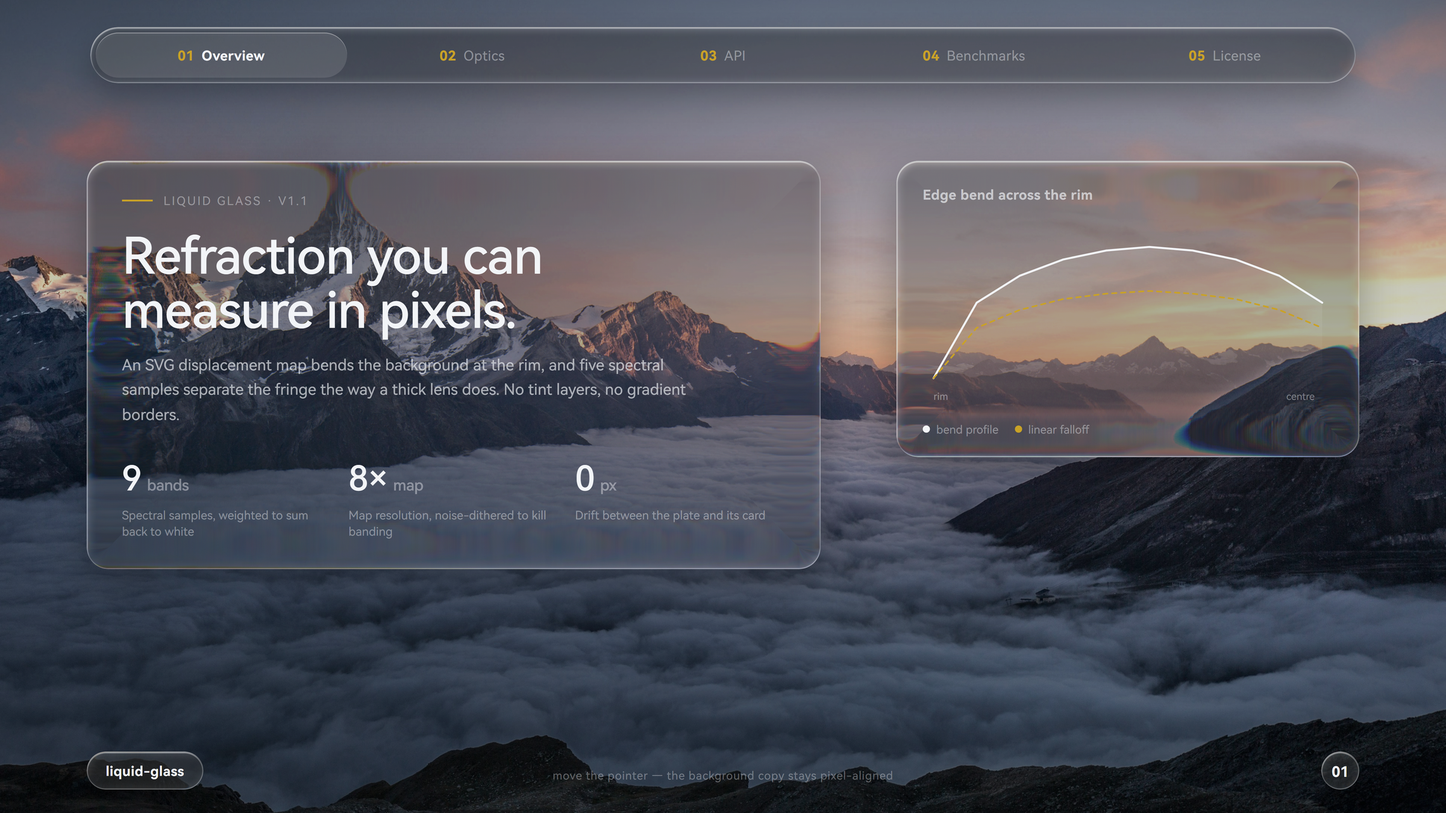
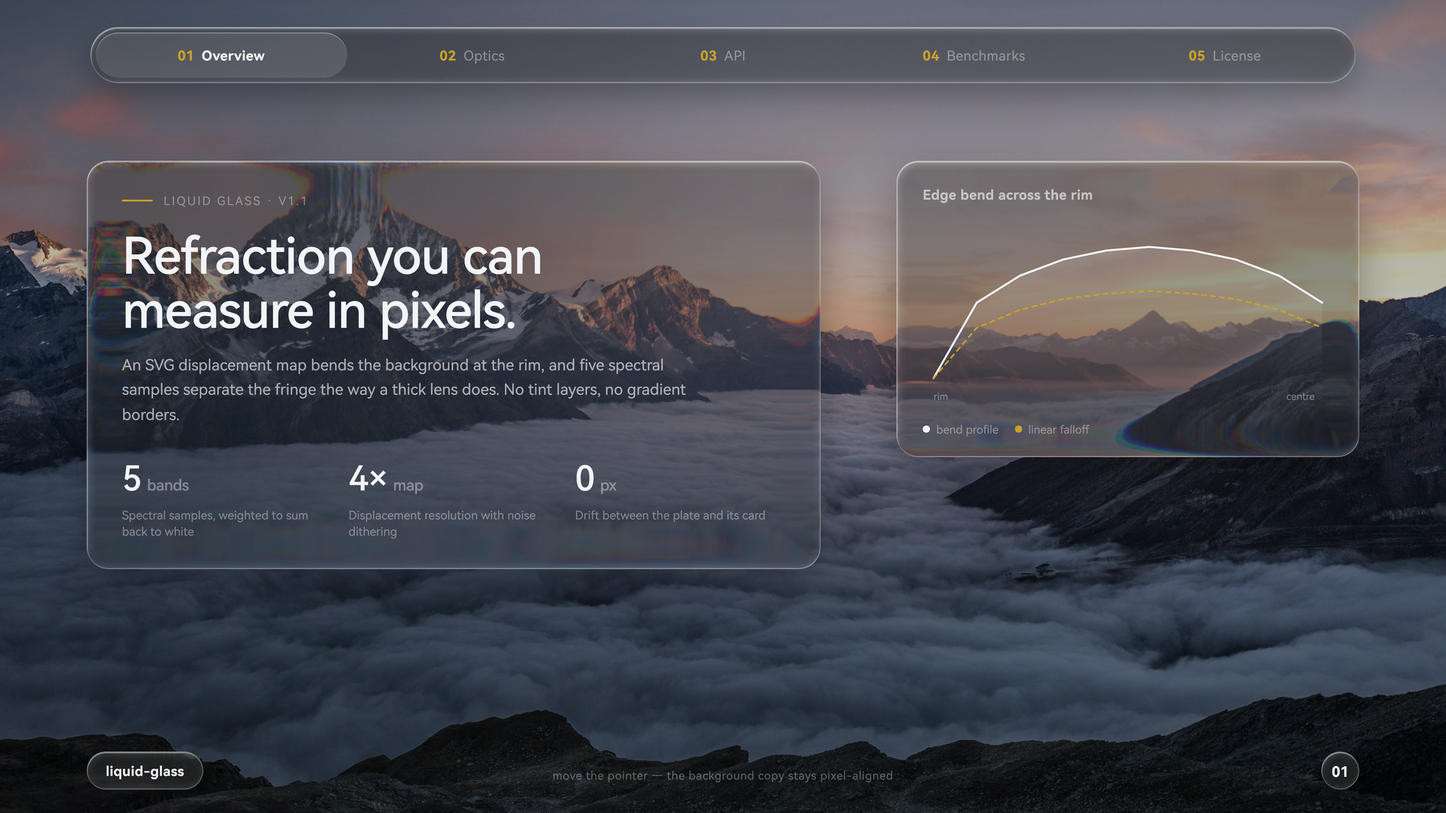
Restore deck parity: 5 weighted bands, 4x map, matched scrim
A nine-band spectrum filled the gap between bands and made the fringe wider and muddier at the
same chroma; the five weighted samples keep it narrow. Dither goes back to a 4x4 Bayer offset.
The demo's scrim and card tint now match the deck, so the same engine reads the same way.

diff --git a/src/liquid-glass.js b/src/liquid-glass.js
@@ -96,6 +96,8 @@ function profileTable(curvature, ior) {
 // Interleaved gradient noise: a non-repeating 0..1 field used to de-band the 8-bit
 // displacement bytes. A periodic Bayer matrix would show up as a visible dot lattice
 // once the map is magnified by a large refraction.
+const BAYER4 = [0, 8, 2, 10, 12, 4, 14, 6, 3, 11, 1, 9, 15, 7, 13, 5];
+
 function ignNoise(x, y) {
   const f = 0.06711056 * x + 0.00583715 * y;
   const g = f - Math.floor(f);
@@ -173,7 +175,7 @@ export function renderLensMap(options = {}, scale = 1) {
         m = table[i0] + (table[i1] - table[i0]) * (f - i0);
       }
       // Noise dither (~±0.4 LSB): breaks the 8-bit rings without forming a lattice.
-      const dth = (ignNoise(i, j) - 0.5) * 0.8;
+      const dth = ((BAYER4[(j & 3) * 4 + (i & 3)] + 0.5) / 16 - 0.5) * 1.5;
       // Convex glass samples from further inside (towards the centre) near the rim.
       const bx = Math.round(127 * m * nx * dir + dth);
       const by = Math.round(127 * m * ny * dir + dth);
@@ -266,31 +268,16 @@ function node(name, attrs) {
   return n;
 }
 
-// Spectral sampling. Each band isolates a narrow slice of the R→G→B axis and is displaced
-// at its own scale; the per-channel weights are normalised so every channel still sums to 1
-// and the glass keeps its colour. More bands = a continuous fringe instead of 3 or 5 hard
-// steps, which is what lets us drop the source blur and keep the glass crisp.
-const CHROMA_BANDS = 9;
-
-function buildSpectrum(n) {
-  const raw = [];
-  for (let i = 0; i < n; i++) {
-    const t = i / (n - 1);
-    raw.push([
-      Math.max(0, 1 - 2 * t),                 // red end
-      1 - Math.abs(2 * t - 1),                // green centre
-      Math.max(0, 2 * t - 1),                 // blue end
-    ]);
-  }
-  const sum = [0, 0, 0];
-  for (const w of raw) w.forEach((v, c) => { sum[c] += v; });
-  return raw.map((w) => [w[0] / sum[0], w[1] / sum[1], w[2] / sum[2]]);
-}
-
-const CHANNELS = buildSpectrum(CHROMA_BANDS).map(([r, g, b]) =>
-  `${r.toFixed(4)} 0 0 0 0  0 ${g.toFixed(4)} 0 0 0  0 0 ${b.toFixed(4)} 0 0  0 0 0 1 0`);
-
-const CHROMA_T = Array.from({ length: CHROMA_BANDS }, (_, i) => i / (CHROMA_BANDS - 1));
+// Five spectral samples: R → R/G → G → G/B → B. Weights sum to exactly 1 on every channel,
+// so the glass keeps its colour and the fringe stays narrow instead of smearing into a rainbow.
+const CHANNELS = [
+  '0.75 0 0 0 0  0 0 0 0 0  0 0 0 0 0  0 0 0 1 0',
+  '0.25 0 0 0 0  0 0.25 0 0 0  0 0 0 0 0  0 0 0 1 0',
+  '0 0 0 0 0  0 0.5 0 0 0  0 0 0 0 0  0 0 0 1 0',
+  '0 0 0 0 0  0 0.25 0 0 0  0 0 0.25 0 0  0 0 0 1 0',
+  '0 0 0 0 0  0 0 0 0 0  0 0 0.75 0 0  0 0 0 1 0',
+];
+const CHROMA_T = [0, 0.35, 0.5, 0.75, 1];
 
 // Filter graph (all coordinates are fractions of the element box — see bendScale):
 //   map        = lens PNG over neutral grey (128 = no bend), only inside the lens rect

diff --git a/demo/index.html b/demo/index.html
@@ -23,7 +23,7 @@
     <span><b>05</b> License</span>
   </nav>
 
-  <section class="hero glass" data-glass data-refraction="92" data-bezel="0.56" data-chroma="0.55" data-map-scale="8" data-blur="0">
+  <section class="hero glass" data-glass data-refraction="92" data-bezel="0.56" data-chroma="0.55" data-map-scale="4" data-blur="0">
     <div class="eyebrow">Liquid glass · v1.1</div>
     <h1>Refraction you can<br>measure in pixels.</h1>
     <p>
@@ -32,12 +32,12 @@
     </p>
     <div class="kpis">
       <div class="kpi">
-        <div class="v">9<em>bands</em></div>
+        <div class="v">5<em>bands</em></div>
         <div class="k">Spectral samples, weighted to sum back to white</div>
       </div>
       <div class="kpi">
-        <div class="v">8&#215;<em>map</em></div>
-        <div class="k">Map resolution, noise-dithered to kill banding</div>
+        <div class="v">4&#215;<em>map</em></div>
+        <div class="k">Displacement resolution with noise dithering</div>
       </div>
       <div class="kpi">
         <div class="v">0<em>px</em></div>
@@ -46,7 +46,7 @@
     </div>
   </section>
 
-  <aside class="side glass" data-glass data-refraction="92" data-bezel="0.56" data-chroma="0.55" data-map-scale="8" data-blur="0">
+  <aside class="side glass" data-glass data-refraction="92" data-bezel="0.56" data-chroma="0.55" data-map-scale="4" data-blur="0">
     <h2>Edge bend across the rim</h2>
     <svg class="chart" viewBox="0 0 456 210" role="img" aria-label="Refraction strength falls off from the rim">
       <defs>

diff --git a/demo/demo.css b/demo/demo.css
@@ -34,7 +34,7 @@ html, body {
   inset: 0;
   background-image: url("assets/alpine.jpg");
   background-size: cover;
-  background-position: 50% 45%;
+  background-position: 50% 62%;
   filter: saturate(0.78) brightness(1.10);
   z-index: 0;
 }
@@ -67,16 +67,16 @@ html, body {
   position: absolute;
   inset: 0;
   background: linear-gradient(180deg,
-    rgba(7, 10, 13, 0.38) 0%,
-    rgba(7, 10, 13, 0.18) 45%,
-    rgba(7, 10, 13, 0.40) 100%);
+    rgba(8, 10, 12, 0.38) 0%,
+    rgba(8, 10, 12, 0.26) 45%,
+    rgba(8, 10, 12, 0.42) 100%);
   z-index: 1;
 }
 
 .lg-vignette {
   position: absolute;
   inset: 0;
-  background: radial-gradient(120% 90% at 50% 38%, rgba(0, 0, 0, 0) 46%, rgba(0, 0, 0, 0.34) 100%);
+  background: radial-gradient(120% 90% at 50% 40%, rgba(0, 0, 0, 0) 45%, rgba(0, 0, 0, 0.30) 100%);
   z-index: 2;
   pointer-events: none;
 }
@@ -85,7 +85,7 @@ html, body {
 
 .glass {
   position: relative;
-  background: rgba(255, 255, 255, 0.042);
+  background: rgba(255, 255, 255, 0.055);
   border: 1px solid var(--line);
   box-shadow: inset 0 1px 0 rgba(255, 255, 255, 0.30), 0 18px 44px rgba(0, 0, 0, 0.30);
   border-radius: 24px;

diff --git a/MODIFICATIONS.md b/MODIFICATIONS.md
@@ -5,28 +5,29 @@ This repository keeps the engine's architecture (SVG `feDisplacementMap` referen
 `filter: url(#…)`, one runtime-generated displacement map per element) and changes the parts that
 decided how the glass *looks* and how it is *attached* to a card.
 
-## 1. Nine spectral samples instead of three
+## 1. Five weighted spectral samples instead of three
 
 `CHANNELS` in `src/liquid-glass.js` used to isolate R, G and B and displace each at its own scale.
 With a large `chroma` that reads as three hard colour bands.
 
-The engine now builds nine bands along the R→G→B axis and normalises the per-channel weights so
-each channel still sums to 1. Colour energy is preserved (the glass does not darken) and the fringe
-becomes a continuous spectrum, which is what lets the demo run with `blur: 0` and stay crisp.
+The engine now uses five weighted samples spanning R→G→B, with weights that sum to exactly 1 on
+every channel, so the fringe stays narrow and the glass keeps its colour. A nine-band variant was
+tried; at the same `chroma` it filled the gap between bands and read as a wider, muddier rainbow,
+so the five-band set is what ships.
 
-Scales are `i / 8` for i in 0…8.
+Scales follow `CHROMA_T = [0, 0.35, 0.5, 0.75, 1]`.
 
 ## 2. Linear interpolation in the lens profile
 
 `const m = table[Math.min(N, Math.round(s * N))]` snapped the bend to the nearest table entry, which
 shows up as concentric steps at high `refraction`. It now interpolates between `i0` and `i1`.
 
-## 3. Noise dithering on the displacement bytes
+## 3. Ordered dithering on the displacement bytes
 
 The map stores the bend in 8-bit R/G channels. At `refraction: 92` one LSB is ≈ 0.7 CSS px, enough to
-band. A 4×4 Bayer matrix was the first attempt, but a periodic pattern shows up as a visible dot lattice
-once `refraction` grows. It is now interleaved gradient noise (non-repeating) at ~±0.4 LSB, which
-reads as fine grain and vanishes at capture resolution.
+band. A 4×4 Bayer offset is added before rounding; the banding turns into fine grain that disappears at
+capture resolution. An interleaved-gradient-noise variant was tested and reverted: at large
+`refraction` the noise itself became visible as speckle along the rim.
 
 ## 4. `mapScale` raised to 4–5
 

diff --git a/README.md b/README.md
@@ -50,10 +50,10 @@
 
 | 改动 | 原因 |
 | --- | --- |
-| 色散从 3 通道扩到 **9 档光谱采样** | 3 通道会在边缘出现紫／绿／青三条硬带；9 档按 R→G→B 轴逐级取样、权重归一化，边缘是连续光谱而不是几条硬带 |
+| 色散从 3 通道扩到 **5 档光谱采样** | 3 通道会在边缘出现紫／绿／青三条硬带；5 档按 R→G→B 轴取样、权重在每个通道上加和为 1，彩边收窄且不偏色。试过 9 档：同一 `chroma` 下色带被填满，反而更宽更浑，已回退 |
 | 透镜剖面表改为 **线性插值** | 原来按整格取表值，折射量呈阶梯 |
-| 位移字节加 **非周期噪声抖动** | 8 位量化在 100px 级折射下会产生同心环 |
-| 采样密度 **mapScale 6–8×** | 位移图分辨率翻倍，边缘过渡更连续 |
+| 位移字节加 **有序抖动** | 8 位量化在 100px 级折射下会产生同心环 |
+| 采样密度 **mapScale 4×** | 位移图分辨率翻倍，边缘过渡更连续 |
 | 折射强度按元素短边收敛 | 42px 高的胶囊吃 92px 折射会被拉出边界，大卡片才需要强折射 |
 | 独立的 `glass-plate.js` 接入层 | 把「背景副本 + 精确裁切 + 字体后重测」封装成一行调用 |
 
